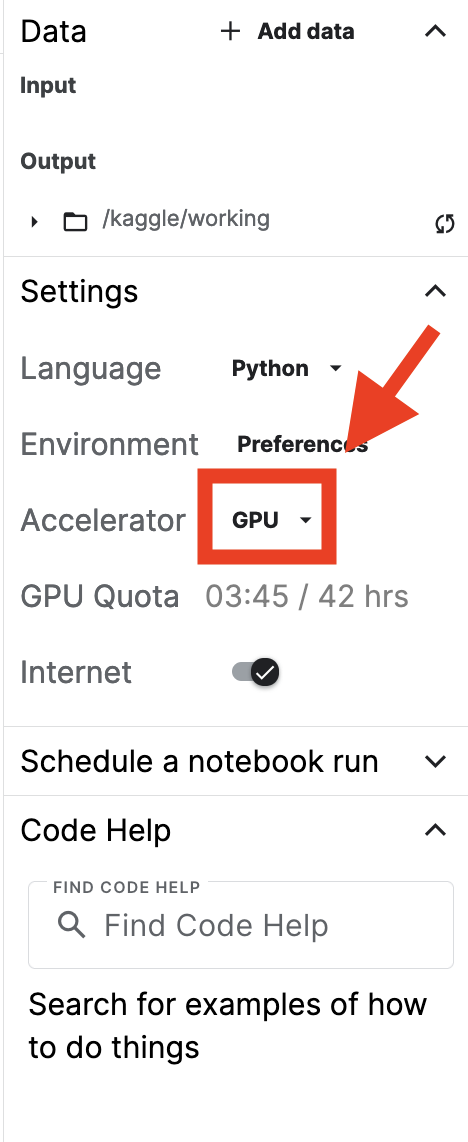
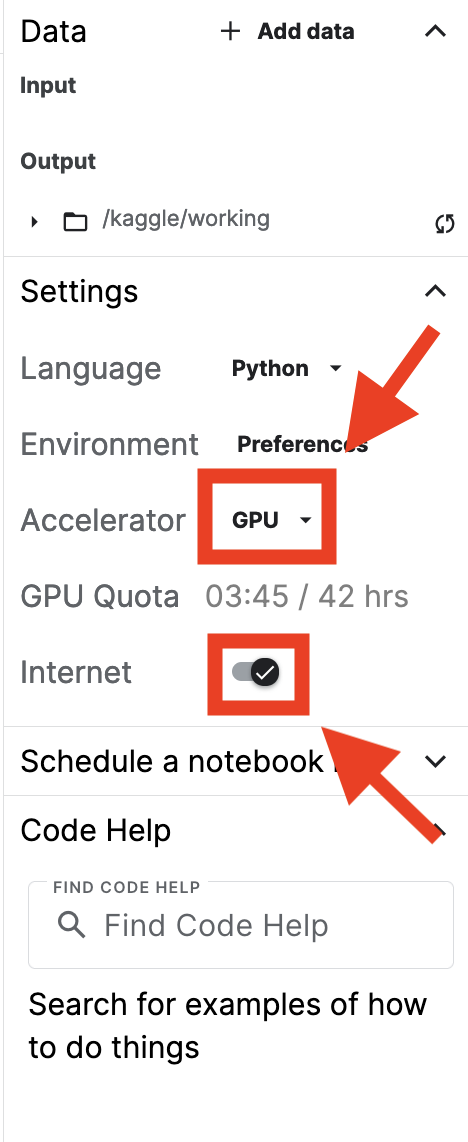
Extra details

Changed region(s): [[0.4188, 0.5517, 0.688, 0.6436], [0.688, 0.613, 0.9573, 0.7356]]

diff --git a/_posts/2022-08-25-stable_diffusion_tutorial.md b/_posts/2022-08-25-stable_diffusion_tutorial.md
@@ -44,9 +44,13 @@ Enter any name you like, I will use StableDiffusion for obvious reasons. You can
 
 <p class="text-center"><img class="shadow" src="{{site.baseurl}}/assets/images/StableDiffusion/HFToken2.png" alt="Token HF page 2" /></p>
 
-And you should end up with something like this. Copy the token and let's go to Kaggle.
+And you should end up with something like this. Copy the token and save it for later use in Kaggle.
 
 <p class="text-center"><img class="shadow" src="{{site.baseurl}}/assets/images/StableDiffusion/HFToken3.png" alt="Token HF page 3" /></p>
+
+Before you can use this token, you need to agree to the terms and conditions of the Stable Diffusion model. Go to the page [https://huggingface.co/CompVis/stable-diffusion-v1-4](https://huggingface.co/CompVis/stable-diffusion-v1-4), access the repository and accept the terms and conditions. If you cannot see the tick box, you just need to log in.
+
+<p class="text-center"><img class="shadow" src="{{site.baseurl}}/assets/images/StableDiffusion/access.png" alt="Terms" /></p>
 
 Same process, to create your account go to [https://www.kaggle.com/](https://www.kaggle.com/) and register yourself. 
 
@@ -62,11 +66,11 @@ Once you are logged in, we can start generating images. I have created a noteboo
 
 <p class="text-center"><img class="shadow" src="{{site.baseurl}}/assets/images/StableDiffusion/kaggleSD2.png" alt="Kaggle SD notebook 2" /></p>
 
-Ok, if it is your first time at kaggle there are a few things to explain before running the notebook. Once you are inside the notebook editor, to start the notebook you have to click the On button, but first you need to make sure the GPU is enabled. To do this, click the bottom right arrow.
+Ok, if it is your first time at kaggle there are a few things to explain before running the notebook. Once you are inside the notebook editor, to start the notebook you have to click the On button, but first you need to make sure the GPU is enabled and that the internet is enabled too. To do this, click the bottom right arrow.
 
 <p class="text-center"><img class="shadow" src="{{site.baseurl}}/assets/images/StableDiffusion/notebook.png" alt="notebook" /></p>
 
-You should see this
+You should see this, 
 
 <p class="text-center"><img class="shadow" src="{{site.baseurl}}/assets/images/StableDiffusion/notebook2.png" alt="notebook 2" /></p>
 
